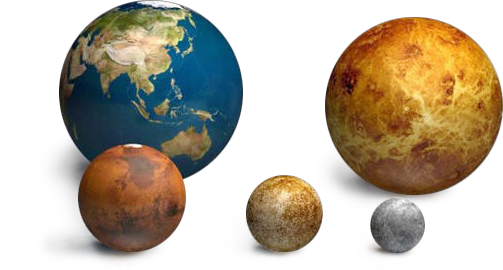
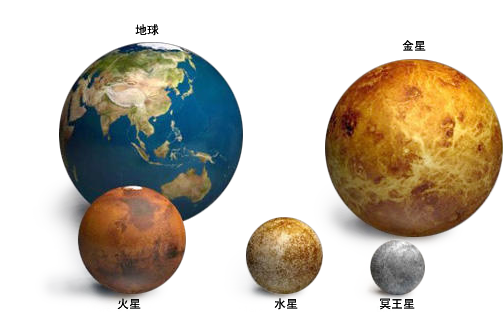
shuixing

diff --git a/index.html b/index.html
@@ -15,7 +15,7 @@
 						<div class="right">
 							<ul clas="meanlist">
 								<li class="design"><a href="#">designed by</a></li>
-								<li class="name"><a href="#">梅园中学/汤奕凡</a></li>
+								<li class="name"><a href="http://myzx.xhedu.sh.cn/cms/">梅园中学/汤奕凡</a></li>
 							</ul>
 						</div>
 					</div>
@@ -119,12 +119,23 @@
 									<img src="link/bijiao-3.png" alt="">
 								</div>
 						</div>
-						<div class="no3">
+						<div class="no2">
 							<div class="shuiXinText">
-								<h6></h6>
+								<h2>水星</h2>
+								<h6>是太阳系八大行星最内侧也是最小的一颗行星，也是离太阳最近的行星。</h6>
+								<h6>离太阳距离最近</h6>
+								<p>水星和太阳的平均距离为5790万公里，约为日地距离的0.387倍（0.387天文单位），比其它太阳系的行星近，到目前为止还没有发现过比水星更近太阳的行星。</p>
+								<div class="shuojin"><h6>轨道速度最快</h6>
+								<p>因为距离最近，所以受到太阳的引力也最大，因此在它的轨道上比任何行星都跑得快，轨道速度为每秒48公里，比地球的轨道速度快18公里。这样快的速度，只用15分钟就能环绕地球一周。</p>
+								<h6>表面温差最大</h6>
+								<p>因为没有大气的调节，距离太阳又非常近，所以在太阳的烘烤下，向阳面的温度最高时可达430℃，但背阳面的夜间温度可降到零下160℃，昼夜温差近600℃，夺得行星表面温差最大的冠军，这真是一个处于火和冰之间的世界。</p>
+								<h6>卫星最少</h6>
+								<p>太阳系中发现了越来越多的卫星，总数超过60个，但水星和金星是根本没有卫星的行星。</p>
+								<h6>时间最快</h6>
+								</div>
 							</div>
-							<div class="shuXIng">
-								<img src="" alt="">
+							<div class="shuXing">
+								<img src="link/shuiXing.png" alt="">
 							</div>
 						</div>
 						<div class="no4">

diff --git a/css3/cs2.css b/css3/cs2.css
@@ -15,6 +15,7 @@ body
 	font-size: 100%;
 	line-height: 1.5;
 	overflow: hidden;
+	font-family: "mircrosoftYaHei";
 }
 .wrap
 {
@@ -320,7 +321,7 @@ li.name a
 {
 	width: 100%;
 }
-.yemian .sunlive .no1 h2
+.yemian h2
 {
 	font-size: 2.8em;
 	color: #ee7419;
@@ -334,13 +335,13 @@ li.name a
 	color: #a2a2a2;
 	font-weight: 100;
 	text-align: left;
-	line-height: 1.5em;
+	line-height: 1.8em;
 	padding-bottom: 2em; 
 }
 .yemian .sunlive .no1 span
 {
-	font-size: .9em;
-	color: #a2a2a2;
+	font-size: 1.3em;
+	color: #525252;
 	font-weight: 100;
 	display: inline-block;
 	padding: 0em 2em 0 0;
@@ -374,6 +375,10 @@ li.name a
 	width: 100%;
 	padding-left: 300px;
 }
+.yemian .sunimg2 img:last-child
+{
+	width: 80%;
+}
 .zong .no1 img[src*=huan]
 {
 	position: absolute;
@@ -385,10 +390,11 @@ li.name a
 .yemian .sunlive .no2
 {
 	width: 100%;
+	border-bottom: 1px dashed #ccc;
 }
 .no2 .suntext2
 {
-	padding: 1em 0 2em 3em;
+	padding: 1em 0 0em 3em;
 }
 .no2 h6
 {
@@ -396,12 +402,13 @@ li.name a
 	font-family: "mircrosoft YaHei";
 	line-height: 1.3em;
 	letter-spacing: .4em;
-	color: #a2a2a2;
+	color: #525252;
 }
 .no2 .sunimg2
 {
-	width: 90%;
-	height: 100vh;
+	width: 80%;
+	height: auto;
+	padding-bottom: 5em;
 }
 .no2 span
 {
@@ -409,11 +416,42 @@ li.name a
 }
 .no2 img
 {
-	padding: 3em; 
+	padding: .1em; 
 }
-.no2 .suntext2
+.shuiXinText
 {
-
+	padding: 3em 0 0 3em;
+	width: 50%;
+	z-index: 2;
+	position: relative;
+}
+.shuiXinText h6
+{
+	color: #ee7419;
+	font-size: .8em;
+	line-height: 1.4em;
+	padding-top: 1.3em;
+}
+.shuiXinText p
+{
+	font-size: .9em;
+}
+.no3
+{
+	padding-bottom: -10em;
+}
+.no2 .shuojin
+{
+	width: 50%;
+}
+.shuXing 
+{
+	position: relative;
+	top: -400px;
+	z-index: 1;
+}
+.shuXing img
+{
 }
 /*媒体查询*/
 @media screen and (max-width: 1380px)
@@ -430,7 +468,7 @@ li.name a
 	{
 		position: absolute;
 		width: calc(100% - 200px);
-		left: 220px;
+		left: 280px;
 		top: 50%;
 		transform: translateY(-50%);
 		height: 90px;
